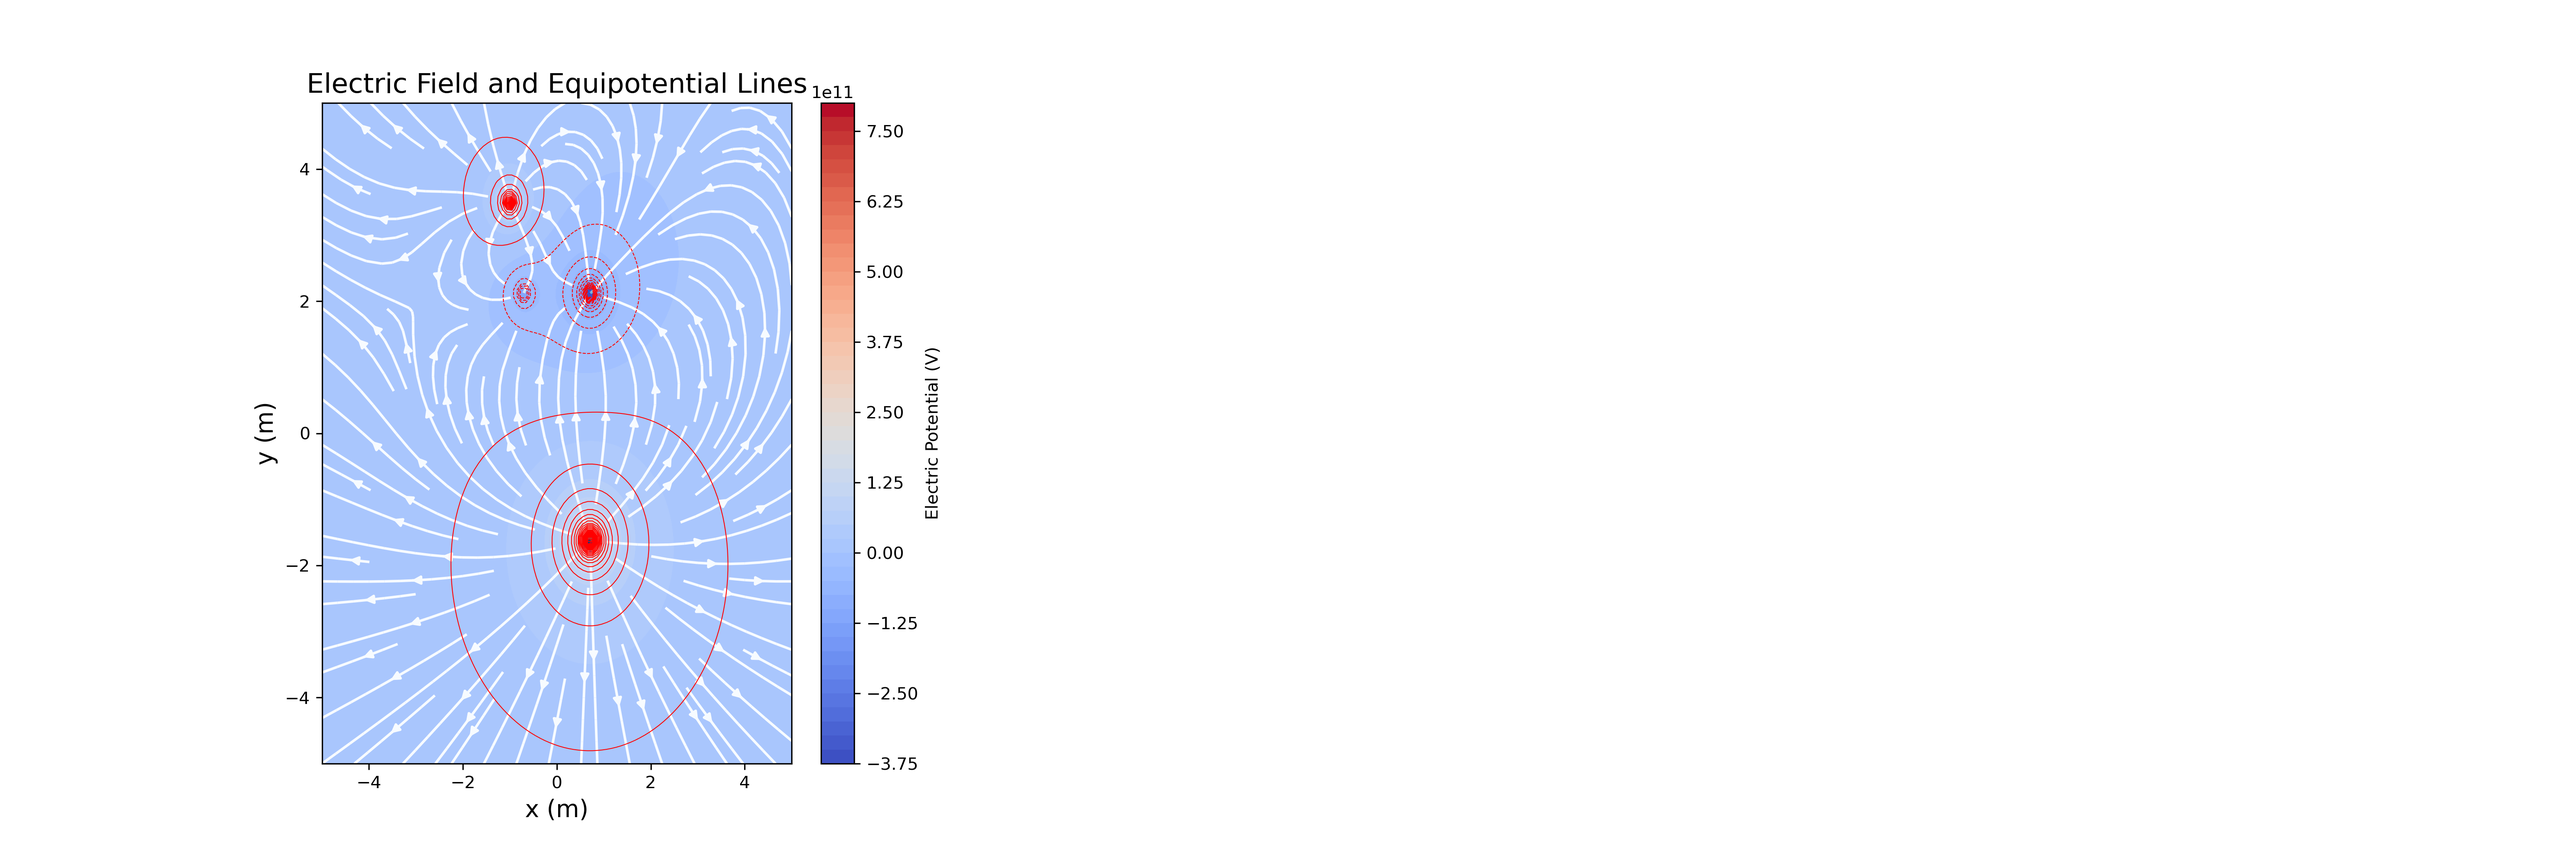
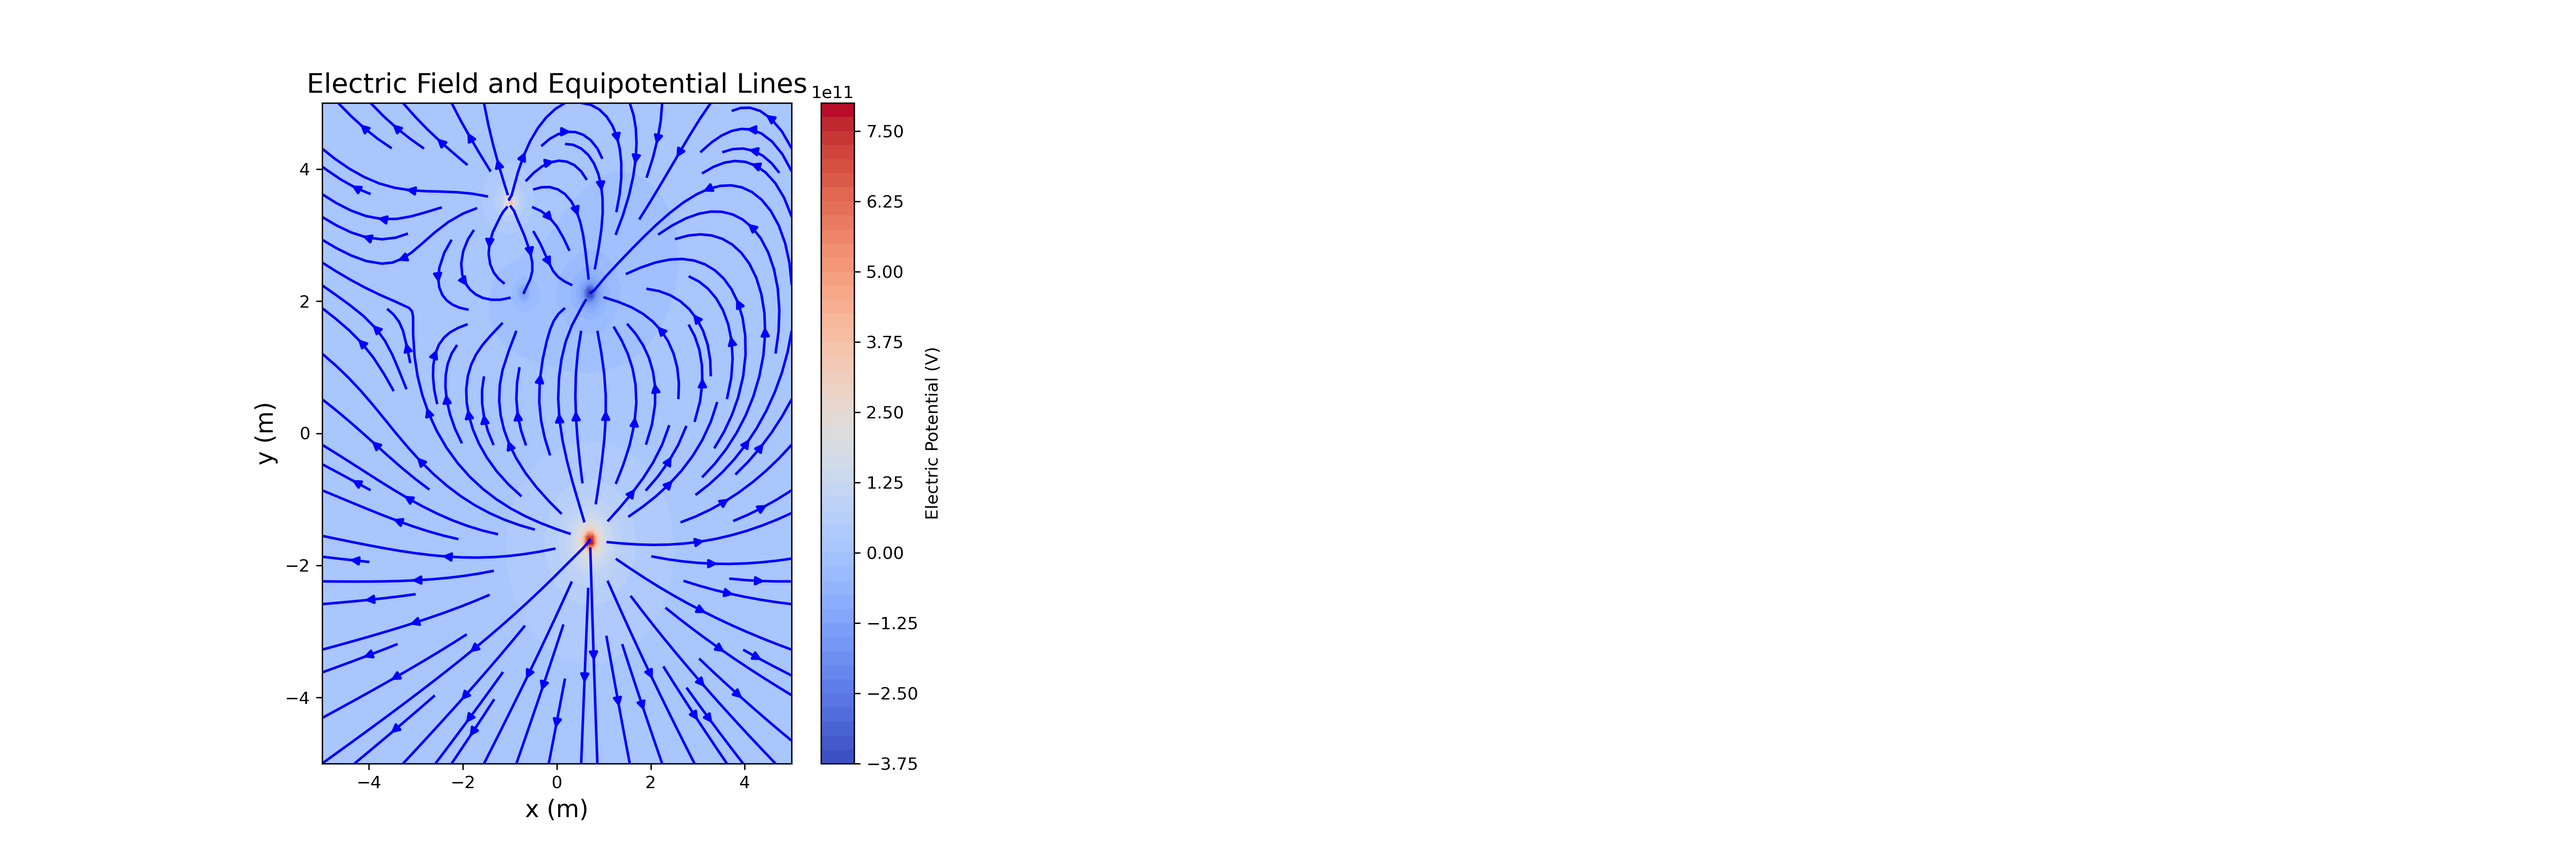
Improved image change with correct position, charges with contour lines

Changed region(s): [[0.1244, 0.1238, 0.3111, 0.8976], [0.1244, 0.1238, 0.1556, 0.1548]]

diff --git a/PHYS 2330 Graded Work/Computational Project 1 & Physics Assignment 2/TH_Computational_Assignment _1.py b/PHYS 2330 Graded Work/Computational Project 1 & Physics Assignment 2/TH_Computational_Assignment _1.py
@@ -1,5 +1,3 @@
-# -*- coding: utf-8 -*-
-
 # Computational Exercise 1 for PHYS*2330 - Fall 2024
 # ------------------------------------------------------------------------------
 ## For this assignment, I need two utilize two functions, one given and the other created
@@ -14,7 +12,6 @@
 """
 PART A
 """
-from IPython.core.pylabtools import figsize
 
 """ Section 1:  Start by importing relevant libraries
 #---------------------------------------------------------------------------"""
@@ -25,116 +22,116 @@ from scipy.constants import epsilon_0
 """ Section 2:  Define functions for the script
 #---------------------------------------------------------------------------"""
 
-# Return the electric potential, V, due to a charge "q" located at position
-# rq = (xq,yq).  Evaluate V at the given position (x,y)
-
-def electric_potential(q, rq, x, y):
-    #k = 8.99e9  # Coulombs Constant - I could also use another
+def electric_potential(q, rq, X, Y):
     e_o = epsilon_0
-    Fr_pi = (4*np.pi)
+    Fr_pi = (4 * np.pi)
     K = 1 / (Fr_pi * e_o)
-    r = np.sqrt((rq[0] - x) ** 2 + (rq[1] - y) **2) #Distance between the position
-    V = K * q / r #Note electrical potential has been written as U also
-    return V #This return allows for the output to be calculated
+    r = np.sqrt((rq[0] - X) ** 2 + (rq[1] - Y) ** 2)  # Distance between the position
+    V = K * q / r
+    return V
 
-#print(V) #I will need values to provide in order to determine the necessary values
-
-
-
-def electric_field(q, rq, x,y):
+def electric_field(q, rq, X, Y):
     e_o = epsilon_0
-    Fr_pi = (4*np.pi)
+    Fr_pi = (4 * np.pi)
     K = 1 / (Fr_pi * e_o)
 
-    #Calculation of the distance between charge and the observation point
-    r = np.sqrt((x - rq[0]) ** 2 + (y - rq[1]) ** 2)
+    # Distance between charge and observation points
+    r = np.sqrt((X - rq[0]) ** 2 + (Y - rq[1]) ** 2)
 
-    #Calculation of the angle
-    theta = np.arctan(y - rq[1], x -rq[0])
+    # Angle calculation
+    theta = np.arctan2((Y - rq[1]), (X - rq[0]))
 
-    #Electric field components using r-squared and theta
-    Efield_comp_x = K * q / (r ** 2) * np.cos(theta) #np.cos represents x direction
-    Efield_comp_y = K * q / (r ** 2) * np.sin(theta) #np.cos represents x direction
+    # Electric field components using r-squared and theta
+    Efield_comp_x = K * q / (r ** 2) * np.cos(theta)  # x direction
+    Efield_comp_y = K * q / (r ** 2) * np.sin(theta)  # y direction
 
     return Efield_comp_x, Efield_comp_y
-
-#Now that all the function are created
-#We can verify using print command and testing
 
 """ Section 3:  Main body of code 
 #---------------------------------------------------------------------------"""
 # Create a 2D grid of x, y points using numpy meshgrid function
 
 nx, ny = 100, 100
-x = np.linspace(-5,5,nx)
-y = np.linspace(-5,5,ny)
-X,Y = np.meshgrid(x,y)
+x = np.linspace(-5, 5, nx)
+y = np.linspace(-5, 5, ny)
+X, Y = np.meshgrid(x, y)
 
-#Charges
-
+# Charges
 q1 = -3
 q2 = -1
-q3 = +2         #the plus + is not needed, but useful for clarity
+q3 = +2
 q4 = +6
 
-#Positions (after the comment)
-'''
-Note the following:
-1. Position of the charges on the vertices of a square of side length d = 3m
-2. Center the square position is at x = -1 and y =0.5
-*This is import to keep in mind especially as it relates understanding Part B
-*I will need to complete my hand calculation to determine these locations
-'''
+# Positions
+x1, y1 = 1 / np.sqrt(2), 3 / np.sqrt(2)
+x2, y2 = -1 / np.sqrt(2), 3 / np.sqrt(2)
+x3, y3 = -1, 3.5
+x4, y4 = 1 / np.sqrt(2), 0.5 - 3 / np.sqrt(2)
 
-#Charge Position #1: -3
-x1 = 1/(np.sqrt(2))
-y1 = 3/(np.sqrt(2))
+# Electric Potential Calculation
+V_potential = electric_potential(q1, [x1, y1], X, Y)
+V_potential += electric_potential(q2, [x2, y2], X, Y)
+V_potential += electric_potential(q3, [x3, y3], X, Y)
+V_potential += electric_potential(q4, [x4, y4], X, Y)
 
-#Charge Position #1: -1
-x2 = -1/(np.sqrt(2))
-y2 = 3/(np.sqrt(2))
+# Electric Field Calculation (using 2D grid X and Y)
+EField_x1, EField_y1 = electric_field(q1, [x1, y1], X, Y)
+EField_x2, EField_y2 = electric_field(q2, [x2, y2], X, Y)
+EField_x3, EField_y3 = electric_field(q3, [x3, y3], X, Y)
+EField_x4, EField_y4 = electric_field(q4, [x4, y4], X, Y)
 
-#Charge Position #1: +2
-x3 =-1
-y3 = 3.5
+# Sum the electric field components
+Ex = EField_x1 + EField_x2 + EField_x3 + EField_x4
+Ey = EField_y1 + EField_y2 + EField_y3 + EField_y4
 
-#Charge Position #1: +6
-x4 = 1/(np.sqrt(2))
-y4 = 0.5 + 3
-
-Vfunzies = electric_potential(q1, [x1,y1], X,Y)
-Vfunzies += electric_potential(q2, [x2,y2], X,Y)
-Vfunzies += electric_potential(q3, [x3,y3], X,Y)
-Vfunzies += electric_potential(q4, [x4,y4], X,Y)
-
-#Note I haven't added the electrical field component yet.
-#This is because I would like to review the position currently
-
-""" Section 4:  Plot your results as a contour plot (re-created from Tutorial, Dr. Massa)
+""" Section 4:  Plot your results as a contour plot
 #---------------------------------------------------------------------------"""
-fig = plt.figure(figsize(20,10))
+fig = plt.figure(figsize=(21, 7))
 ax1 = fig.add_subplot(121)
 ax2 = fig.add_subplot(122)
 
-ax1.set_title("X meshgrid", fontsize = 20) #Adds title to the X axis
-ax2.set_title("Y meshgrid", fontsize = 20) #Adds title to the Y axis
+ax1.set_title("Electric Potential", fontsize=20)
+ax2.set_title("Electric Field (Y meshgrid)", fontsize=20)
 
-im1 = ax1.imshow(Vfunzies, cmap = 'coolwarm', extent = (-6, 6, 6, 6), origin = "lower")
+# Electric potential plot
+im1 = ax1.imshow(V_potential, cmap='coolwarm', extent=(-6, 6, -5, 5), origin="lower")
+plt.colorbar(im1, ax=ax1)
+
+# Y meshgrid plot
 im2 = ax2.imshow(Y, cmap='coolwarm')
-plt.colorbar(im2)
+plt.colorbar(im2, ax=ax2)
 
-# Contour plots set equipotential lines that are equally spaced in values of V
-# We can specify the values of the contour lines
-
-VpLines = 10 ** np.linspace(6,12,5)
+# Contour plot for electric potential
+VpLines = 10 ** np.linspace(6, 12, 5)
 VpLines = sorted(list(-VpLines) + list(VpLines))
+ax1.contour(X, Y, V_potential, colors='r', linewidths=0.5, levels=np.linspace(np.min(V_potential), np.max(V_potential), 50))
 
-ax1.contour(X,Y,Vfunzies, color='r', linewidths=1, levels=VpLines)
-#Notice that the Vplines within the contours is connected to the line 129
-#To make adjustments change within 129
+""" Section 5: Vector plot (Electric Field)
+#---------------------------------------------------------------------------"""
+fig2 = plt.figure(figsize=(21, 7))
+ax3 = fig2.add_subplot(131)
+# Streamplot for the electric field (vX, vY as Ex, Ey)
+ax3.streamplot(X, Y, Ex, Ey, color='blue', cmap='coolwarm', density=1.0)
 
-# Save you plot
+# Contour plot for electric potential
+ax3.contour(X, Y, V_potential, colors='red', linewidths=0.5, levels=np.linspace(np.min(V_potential), np.max(V_potential), 50))
+#ax3.contour(X, Y, V_potential, colors='red', linewidths=1, levels=VpLines)
+# Color-filled contour plot
+filled_contour = ax3.contourf(X, Y, V_potential, levels=50, cmap='coolwarm')
+
+# Title and labels
+ax3.set_title("Electric Field and Equipotential Lines", fontsize=16)
+ax3.set_xlabel("x (m)", fontsize=14)
+ax3.set_ylabel("y (m)", fontsize=14)
+
+# Colorbar for the potential field
+plt.colorbar(filled_contour, ax=ax3, label="Electric Potential (V)")
+
+# Show the plot
 plt.savefig('fieldPlot2.png', dpi=300)
+
+
+
 
 
 """ 
